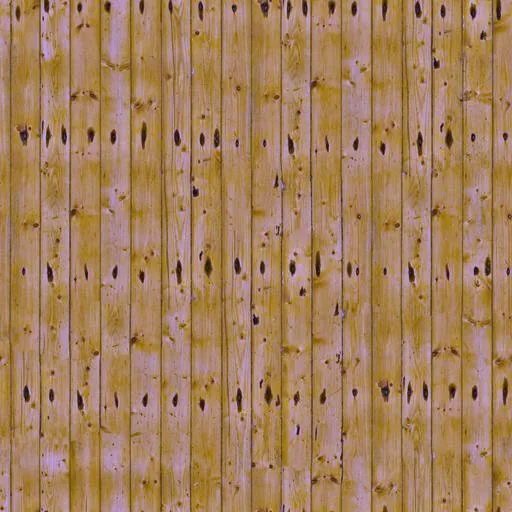
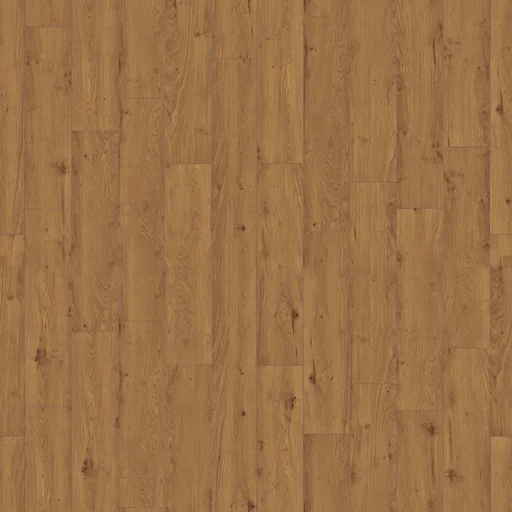
Deeper oak floor; open with wood floor and evening lighting
- Wood floor texture: Poly Haven laminate_floor_03 (natural oak planks)
  replaces the knotty, purple-tinged plank scan; toned a shade deeper
- Porcelain colour is restored when switching back to tile / microcement
- Default floor: wood; default lighting: evening

Claude-Session: https://claude.ai/code/session_011LKaPuz97Q7yWzRgDTzjwr

diff --git a/src/scene/FloorsAndCeiling.tsx b/src/scene/FloorsAndCeiling.tsx
@@ -17,9 +17,12 @@ function useFloorFinish() {
     const m = materials()
     const p = m.porcelain
     if (!porcelainMap) porcelainMap = p.map
+    if (!porcelainColor) porcelainColor = p.color.clone()
+    p.color.copy(porcelainColor)
     if (finish === 'wood') {
       p.map = woodFloorTexture()
-      p.roughness = 0.38 // satin-lacquered oak
+      p.color.set('#b8a898') // a shade deeper and less orange than the raw oak scan
+      p.roughness = 0.42 // satin-lacquered oak
     } else if (finish === 'concrete') {
       p.map = microcementTexture()
       p.roughness = 0.6 // sealed microcement, soft sheen
@@ -31,6 +34,7 @@ function useFloorFinish() {
   }, [finish])
 }
 let porcelainMap: THREE.Texture | null = null
+let porcelainColor: THREE.Color | null = null
 
 export function Floors() {
   useFloorFinish()

diff --git a/src/state/floorMode.ts b/src/state/floorMode.ts
@@ -1,9 +1,9 @@
-/** Floor finish in the dry areas: the existing porcelain tiles, medium-oak boards, or grey microcement. */
+/** Floor finish in the dry areas: the existing porcelain tiles, oak boards (default), or grey microcement. */
 import { useSyncExternalStore } from 'react'
 
 export type FloorFinish = 'tile' | 'wood' | 'concrete'
 
-let finish: FloorFinish = 'tile'
+let finish: FloorFinish = 'wood'
 const listeners = new Set<() => void>()
 
 export function setFloorFinish(f: FloorFinish) {

diff --git a/src/state/lightMode.ts b/src/state/lightMode.ts
@@ -3,7 +3,7 @@ import { useSyncExternalStore } from 'react'
 
 export type LightMode = 'day' | 'evening'
 
-let mode: LightMode = 'day'
+let mode: LightMode = 'evening'
 const listeners = new Set<() => void>()
 
 export function setLightMode(m: LightMode) {

diff --git a/src/furniture/phTextures.ts b/src/furniture/phTextures.ts
@@ -30,7 +30,7 @@ export const tileSize = {
   sand: 0.27,
   taupe: 0.27,
   leather: 0.4,
-  wood_floor: 1.98,
+  wood_floor: 2.08, // laminate_floor_03
   microcement: 2.0,
   jute: 0.27,
 } as const

diff --git a/MODEL_NOTES.md b/MODEL_NOTES.md
@@ -151,6 +151,8 @@ Assets (v6): all loose furniture and decor are downloaded models, not hand-built
 
 Loading: each model is one meshopt-compressed GLB with WebP textures at up to 512 px, and unused variants are pruned. Surface textures are WebP. public/assets/ph was cut from ~12 MB to ~3.7 MB, and is ~7 MB with the Sketchfab furniture added. All models preload at startup. vercel.json caches /assets/ph for 30 days.
 
+Defaults: opens in Evening lighting with the wood floor (Poly Haven laminate_floor_03 oak, toned a shade deeper); tile and microcement remain on the Floor button.
+
 Open design questions:
 - [ ] Sofa bed folded flat is deeper than as a sofa (not modelled); check clearance to the desk chair.
 - [ ] Studio air-con position is assumed (above the window); living and master follow the points you marked.

diff --git a/public/assets/ph/README.md b/public/assets/ph/README.md
@@ -7,7 +7,7 @@ meshopt-compressed geometry, WebP textures at 512 px (sofa 1024 px), unused vari
 Models (glb/): ceramic_vase_01–04, antique_ceramic_vase_01, wooden_bowl_01, pachira_aquatica_01
 (variant d only), potted_plant_02, potted_plant_04, dry_branches_medium_01 (branch a only), planter_pot_clay.
 Textures (tex/, recoloured to the palette): walnut_veneer, smoked_walnut_veneer, teak_veneer,
-plaster_grey_04, rough_linen (as cream / linen / sand / taupe), brown_leather, plank_flooring_02,
+plaster_grey_04, rough_linen (as cream / linen / sand / taupe), brown_leather, laminate_floor_03 (wood floor),
 smooth_concrete_floor, poly_wool_herringbone (as jute).
 
 ## Khronos glTF Sample Assets — https://github.com/KhronosGroup/glTF-Sample-Assets
